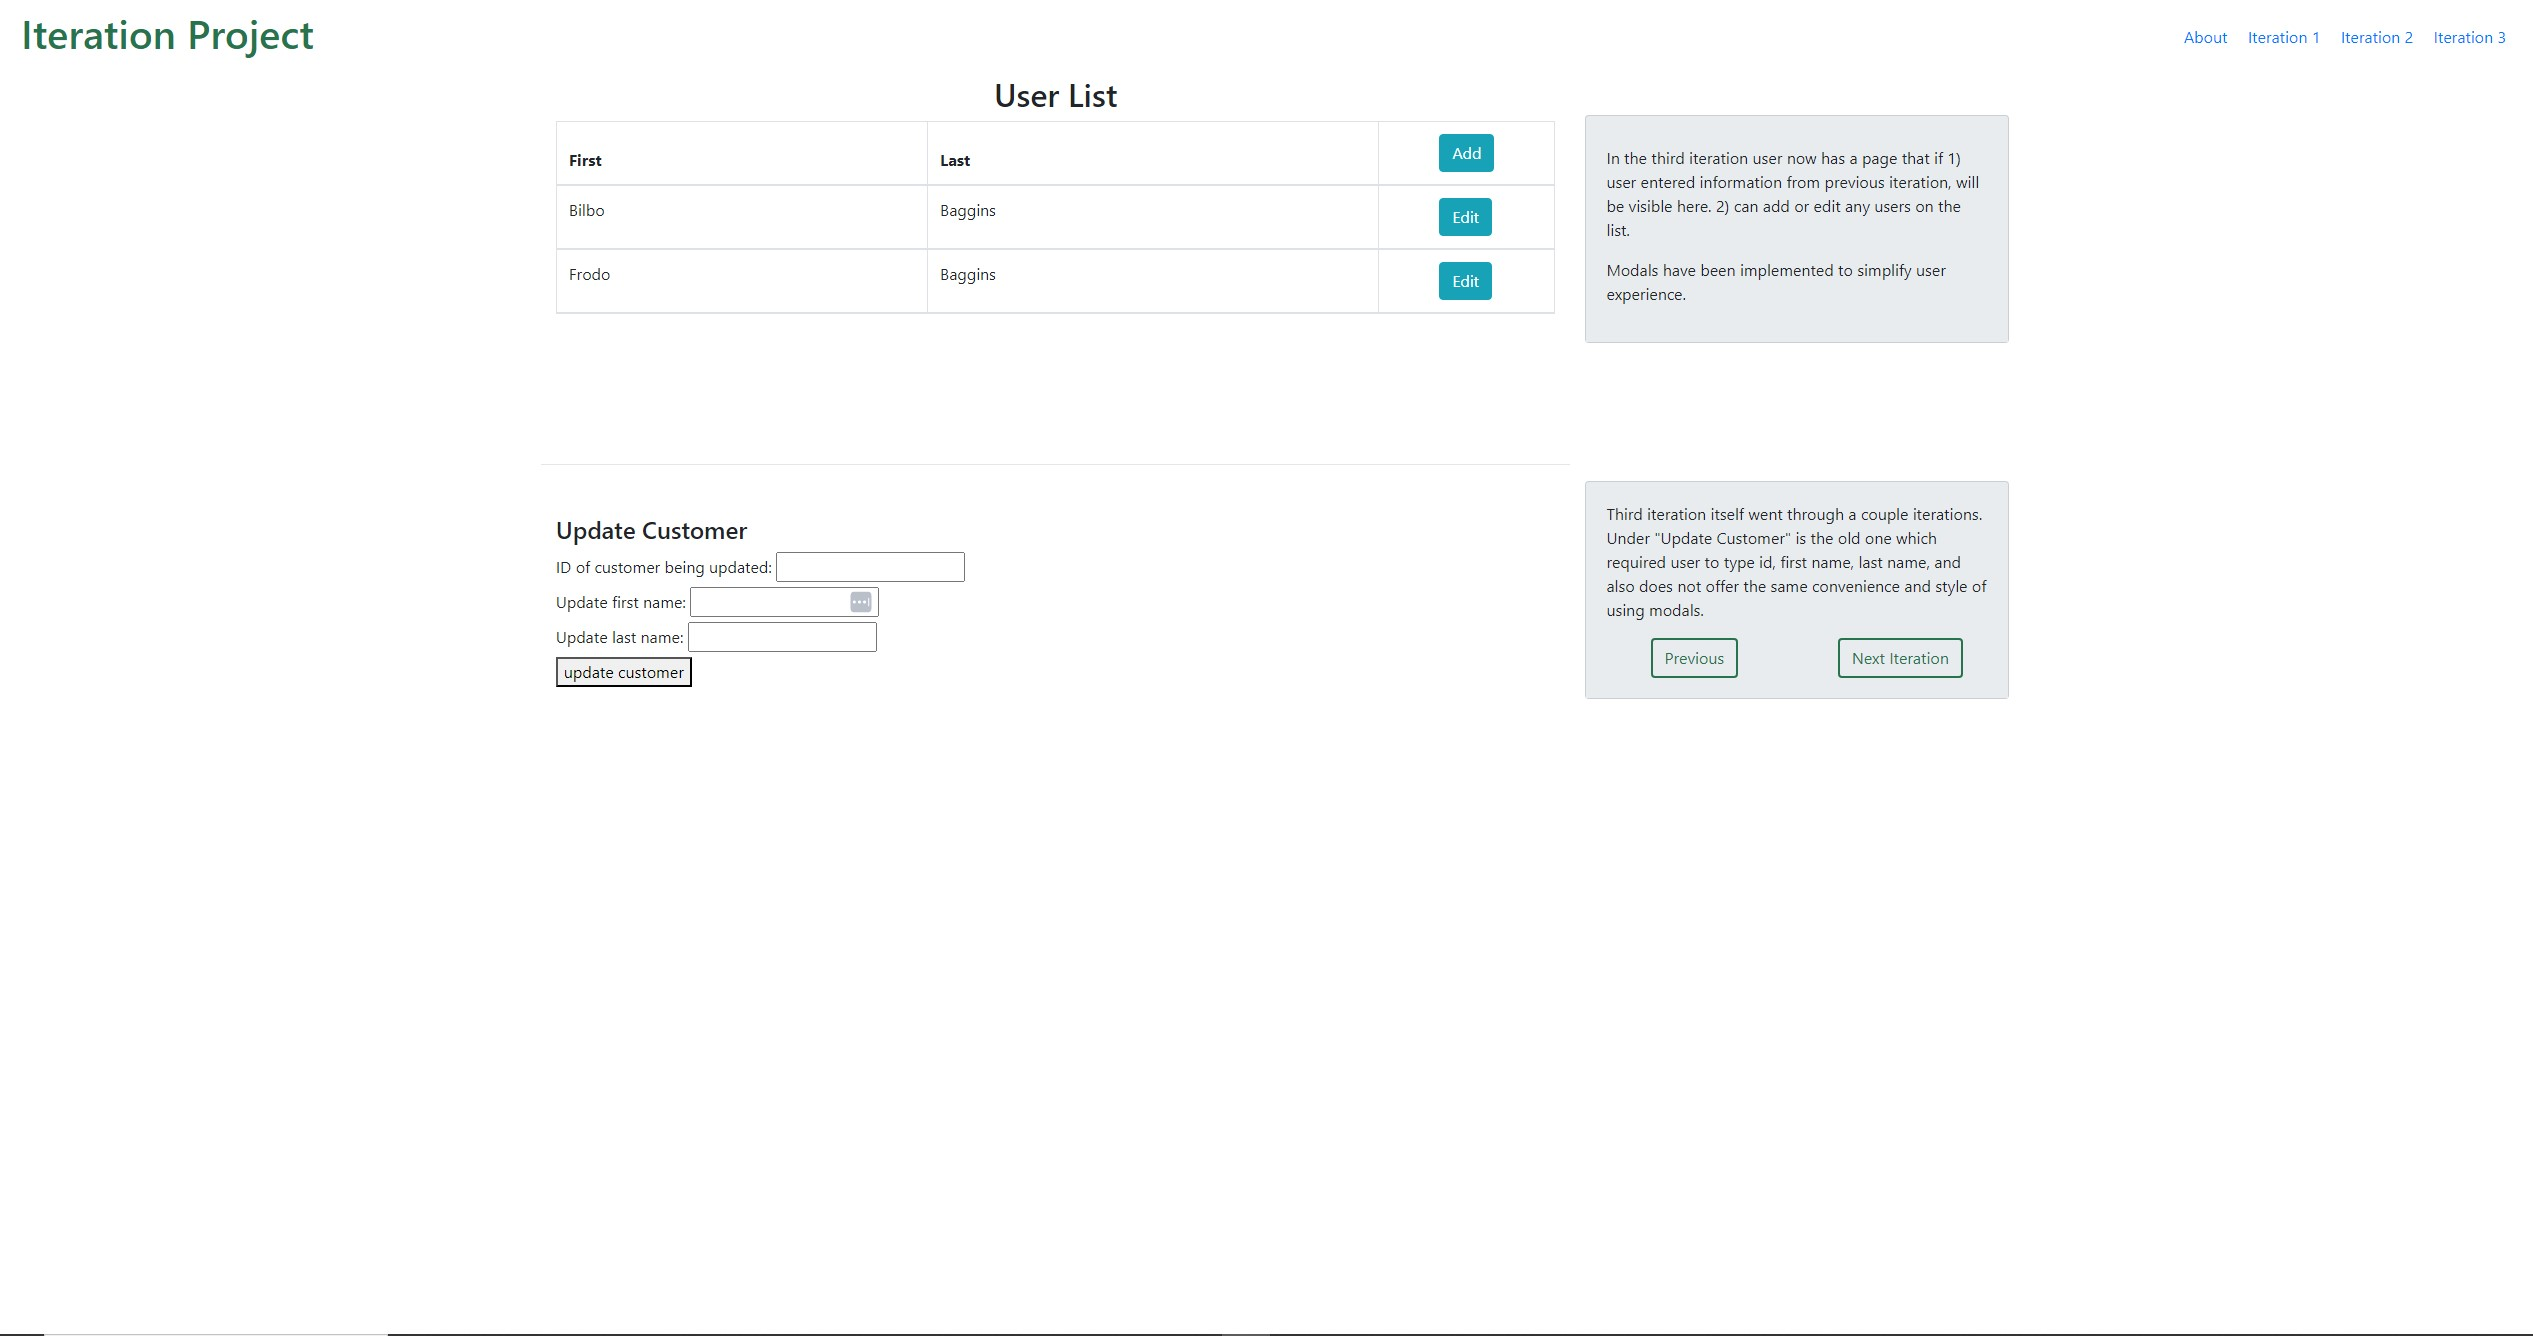
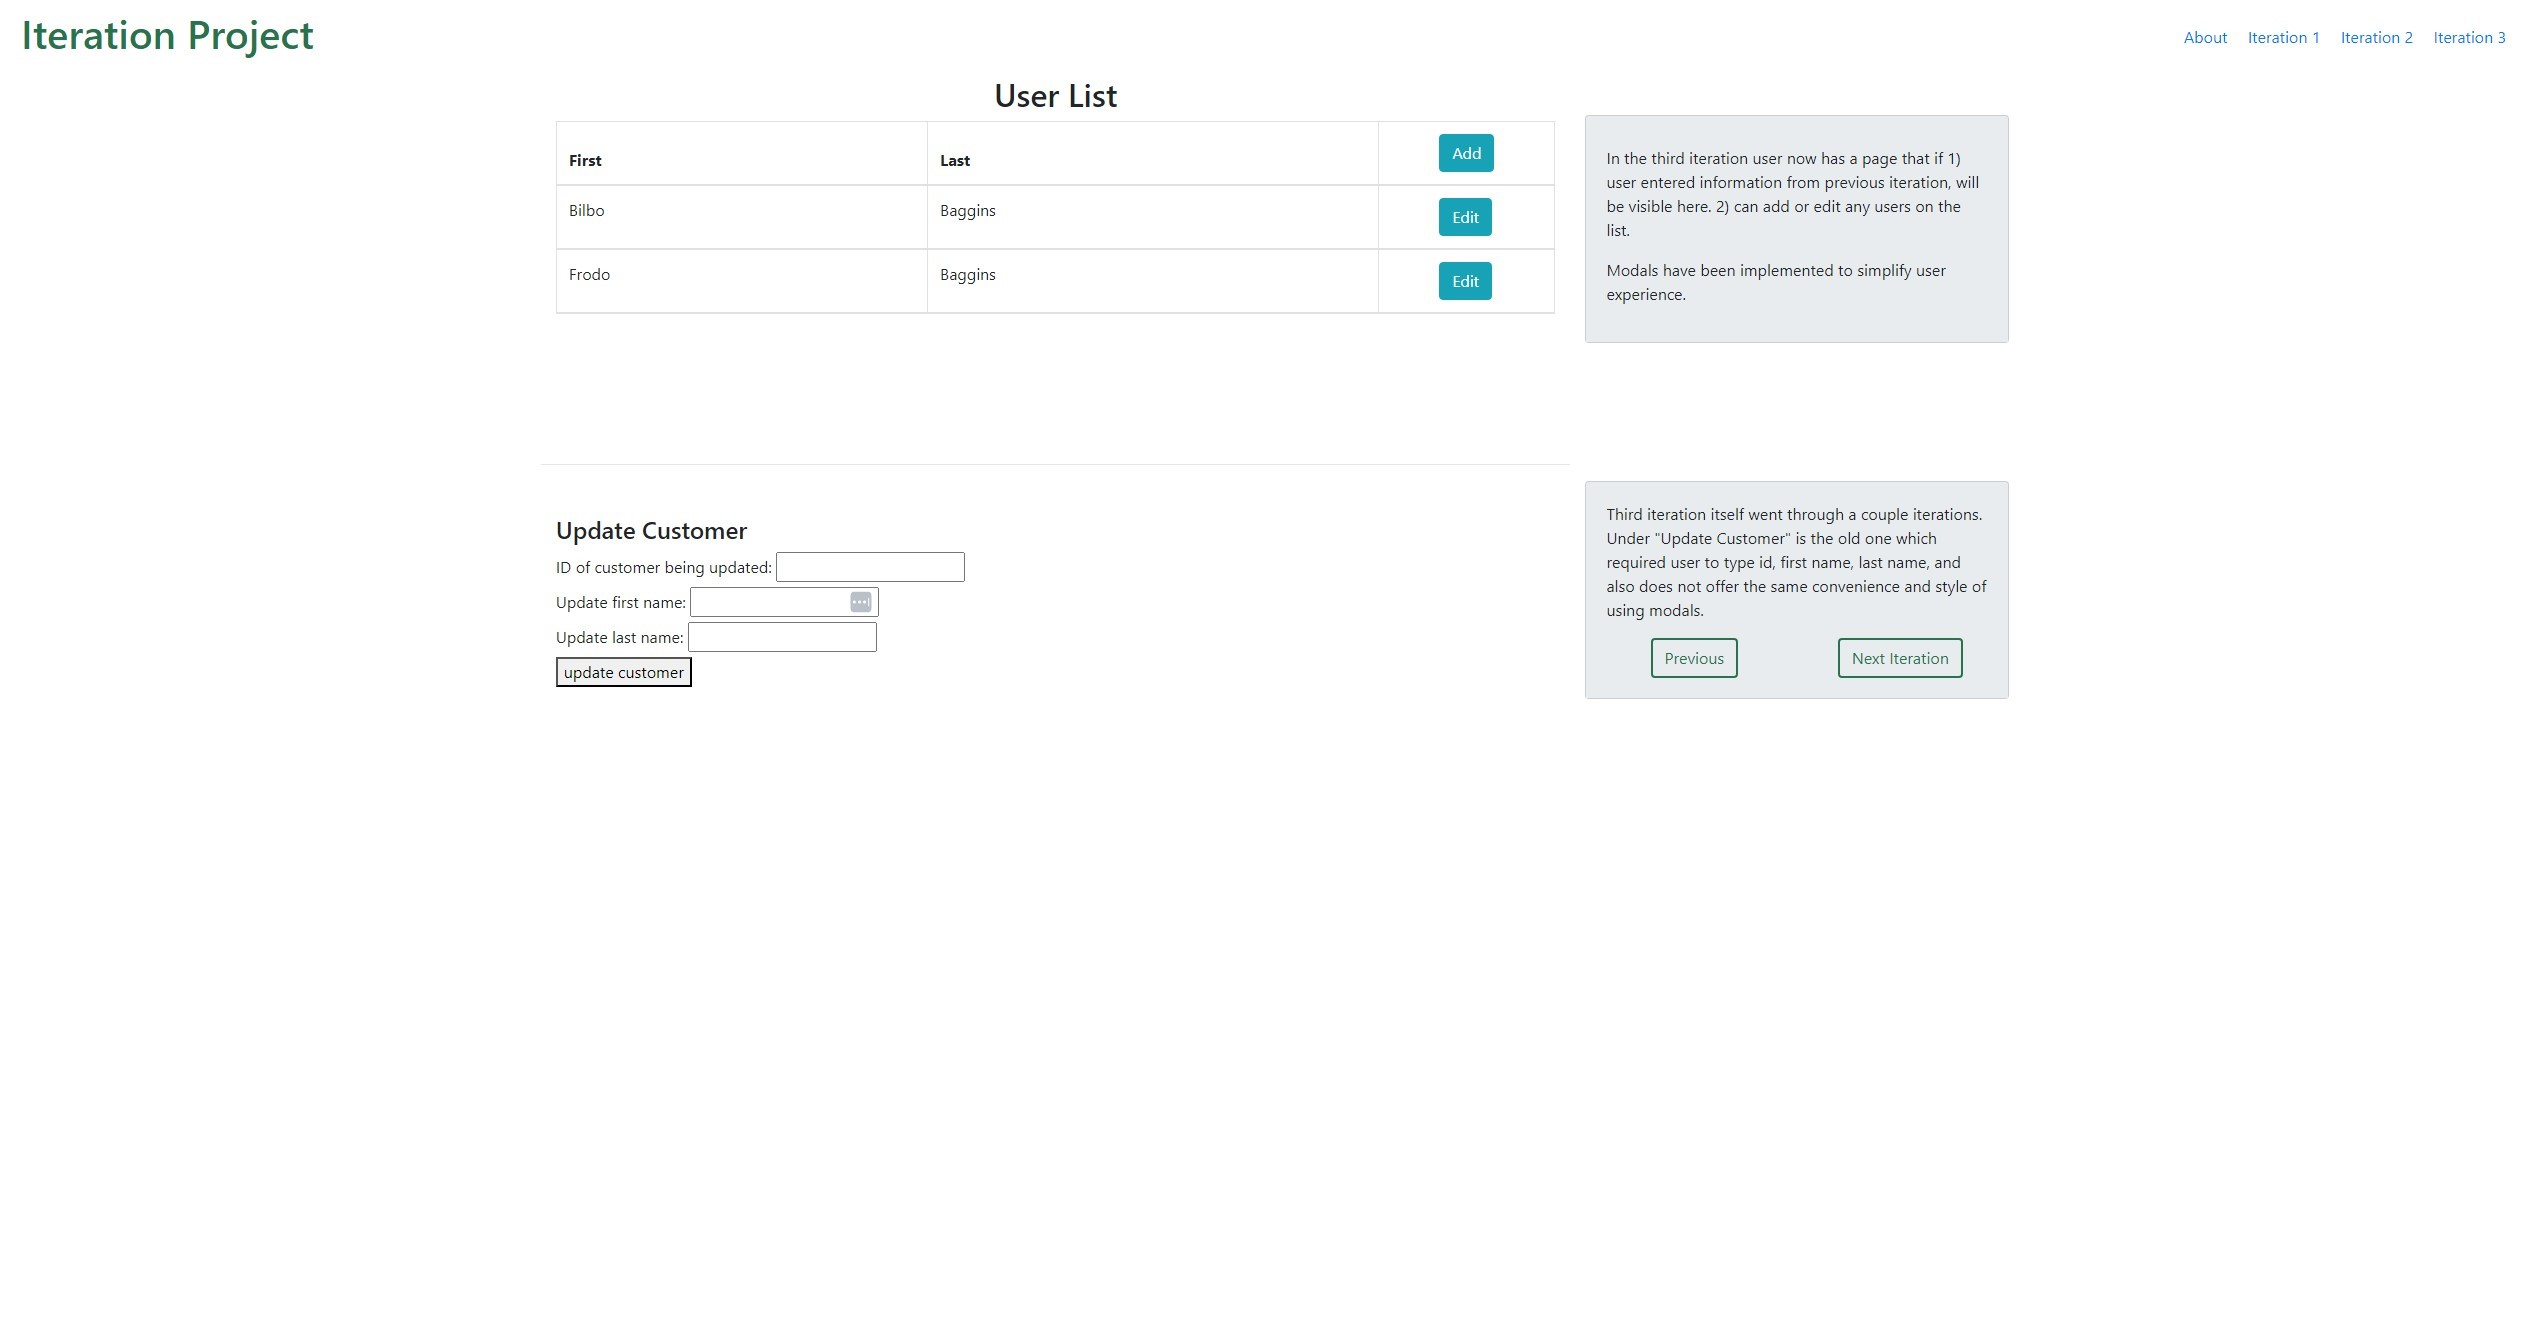
fix hover area issue, update iter iamges

diff --git a/src/main/resources/templates/index.html b/src/main/resources/templates/index.html
@@ -116,20 +116,20 @@
     </div>
 
     <div id="iter1" class="row mx-auto" style="margin-top: 150px; padding: 20px;">
-        <div class="col d-flex justify-content-center flex-column" style="margin-right:-30%;">
+        <div class="col d-flex justify-content-center flex-column" style="margin-right:-30%;z-index:1">
             <div class="row align-self-center">
                 <h4>Iteration 1</h4>
             </div>
             <div class="row align-self-center">
                 <a th:href="@{/showIteration1}">
 
-                    <img id="img1" class="img-fluid" width="580px" style="border:.5px solid #26734d; margin-top:10px;"
+                    <img id="img1" class="img-fluid" width="580px" style="border: 1px solid #d9dcdf; margin-top:10px;"
                          th:src="@{/images/iter1.jpg}"/>
                 </a>
             </div>
         </div>
 
-        <div class="col d-flex justify-content-center flex-column">
+        <div class="col d-flex justify-content-center flex-column" style="z-index:0">
             <div class="row align-self-center">
             </div>
         </div>
@@ -147,7 +147,7 @@
             <div class="row align-self-center">
                 <a th:href="@{/showIteration2}">
 
-                    <img id="img2" class="img-fluid" width="580px" style="border:.5px solid #26734d; margin-top:10px;"
+                    <img id="img2" class="img-fluid" width="580px" style="border:1px solid #d9dcdf; margin-top:10px;"
                          th:src="@{/images/iter2.jpg}"/>
                 </a>
             </div>
@@ -156,20 +156,20 @@
 
 
     <div id="iter3" class="row mx-auto" style="margin-top: 150px; padding: 20px;">
-        <div class="col d-flex justify-content-center flex-column" style="margin-right:-30%;">
+        <div class="col d-flex justify-content-center flex-column" style="margin-right:-30%;z-index:1">
             <div class="row align-self-center">
                 <h4>Iteration 3</h4>
             </div>
             <div class="row align-self-center">
                 <a th:href="@{/showIteration3}">
 
-                    <img id="img3" class="img-fluid" width="580px" style="border:.5px solid #26734d; margin-top:10px;"
+                    <img id="img3" class="img-fluid" width="580px" style="border:1px solid #d9dcdf; margin-top:10px;"
                          th:src="@{/images/iter3.jpg}"/>
                 </a>
             </div>
         </div>
 
-        <div class="col d-flex justify-content-center flex-column">
+        <div class="col d-flex justify-content-center flex-column" style="z-index:0">
             <div class="row align-self-center">
             </div>
         </div>
